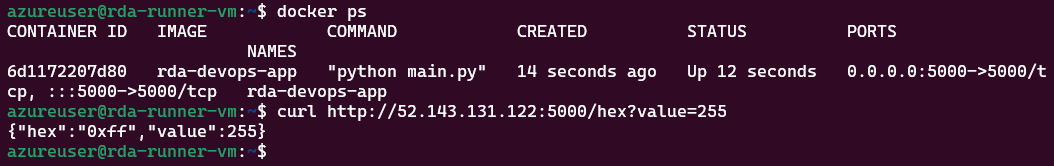
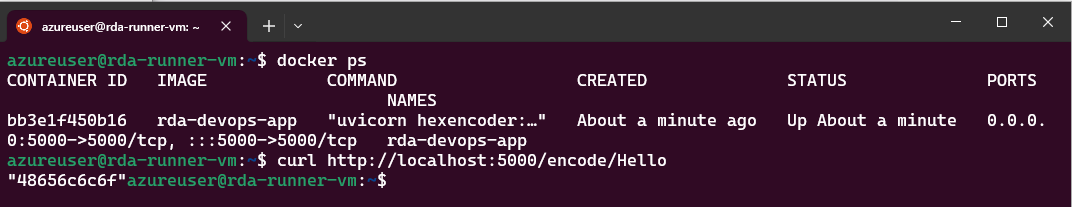
git ignore add, & update readme

diff --git a/cicd_deployment/hexencoder.py b/cicd_deployment/hexencoder.py
@@ -1,0 +1,15 @@
+#!/usr/bin/python3
+import codecs
+from fastapi import FastAPI
+
+# FastAPI app instance
+app = FastAPI()
+
+# hexencoder API
+@app.get("/encode/{text}")
+def hex_encode_text(text: str):
+    return codecs.getencoder('hex')(text.encode())[0].decode('ascii')
+
+@app.get("/decode/{text}")
+def hex_decode_text(text: str):
+    return codecs.getdecoder('hex')(text.encode())[0].decode('utf-8')

diff --git a/cicd_deployment/test_hexencoder.py b/cicd_deployment/test_hexencoder.py
@@ -1,0 +1,7 @@
+from cicd_deployment.hexencoder import hex_encode_text, hex_decode_text
+
+def test_encode():
+    assert hex_encode_text('Héllo') == '48c3a96c6c6f'
+
+def test_decode():
+    assert hex_decode_text('48c3a96c6c6f') == "Héllo"

diff --git a/cicd_deployment/README.md b/cicd_deployment/README.md
@@ -14,7 +14,7 @@ Le tout basé sur une application Python containerisée, avec des tests unitaire
 | 🧰 Plateforme CI/CD       | GitLab CE auto-hébergé sur Azure                                      |
 | 🖥 Infrastructure         | 2 VMs Azure déployées via Terraform (1 GitLab + 1 GitLab Runner)      |
 | ⚙ Provisionning          | Ansible (Docker, GitLab Runner, NGINX, Certbot...)                    |
-| 📦 Déploiement            | Docker / Shell                                                         |
+| 📦 Déploiement            | Docker / Shell / FastAPI (Uvicorn)                                                       |
 | 🔍 Supervision (optionnel)| Docker logs (local)                                                    |
 
 ---
@@ -31,7 +31,71 @@ Le tout basé sur une application Python containerisée, avec des tests unitaire
    └──> VM Azure exposée via HTTPS (Nginx + Certbot)
 ```
 
-![Schéma Architecture](images/schéma%20d'architecture.png)
+---
+
+## 📂 Fichiers clés
+
+- [`hexencoder.py`](hexencoder.py) : code principal FastAPI
+- [`test_hexencoder.py`](test_hexencoder.py) : tests unitaires Pytest
+- [`Dockerfile`](Dockerfile) : création de l’image
+- [`requirements.txt`](requirements.txt) : dépendances
+- [`.gitlab-ci.yml`](.gitlab-ci.yml) : pipeline GitLab CI/CD
+
+---
+
+## 🧪 Phase de test en local
+
+1. Créer et activer un environnement virtuel
+```bash 
+python3 -m venv .venv
+source .venv/bin/activate
+```
+2. Installer les dépendances 
+```bash 
+pip install -r requirements.txt
+```
+Si tu n’as pas encore de requirements.txt, tu peux le créer avec ce contenu :
+```
+pytest
+flask
+fastapi
+uvicorn
+```
+3. Lancer les tests unitaires avec `pytest`
+```bash 
+pytest
+```
+
+Tu dois voir une sortie comme :
+```
+==================== test session starts ====================
+collected 2 items
+
+test_hexencoder.py ..                                      [100%]
+
+===================== 2 passed in 0.05s =====================
+```
+![Uvicorn Host](images/pytest_and_uvicorn_host.png)
+
+4. Lancer le serveur en local (FastAPI)
+```bash 
+uvicorn hexencoder:app --host 0.0.0.0 --port 8000
+```
+
+Puis aller sur : 
+- Swagger UI → http://127.0.0.1:8000/docs
+- Test via `curl` :
+```bash 
+curl http://127.0.0.1:8000/encode/Héllo
+→ "48c3a96c6c6f"
+
+curl http://127.0.0.1:8000/decode/48c3a96c6c6f
+→ "Héllo"
+```
+
+![Fast API Access](images/fat_api_access.png)
+![Encode Hello Local](images/encode_hello.png)
+![Hello Local](images/hello.png)
 
 ---
 
@@ -81,10 +145,11 @@ Les tests sont déclenchés automatiquement via `pytest`.
 Extrait du test :
 
 ```python
-from main import convert_to_hex
-
-def test_convert_to_hex():
-    assert convert_to_hex(255) == "0xff"
+from hexencoder import hex_encode_text, hex_decode_text
+def test_encode():
+     assert hex_encode_text('Héllo') == '48c3a96c6c6f'
+def test_decode():
+     assert hex_decode_text('48c3a96c6c6f') == "Héllo"
 ```
 
 ![Tests unitaires](images/curl.png)
@@ -96,6 +161,7 @@ def test_convert_to_hex():
 Une branche `test-fail` a été créée avec un test volontairement erroné.  
 Le pipeline échoue correctement et empêche le merge (du point de vue des développeurs sans rôle admin).
 
+![MR ALLOWED](images/mr_allowed.png)
 ![Pipeline FAIL](images/merge%20request%20failed%201.png)
 
 ---
@@ -104,11 +170,15 @@ Le pipeline échoue correctement et empêche le merge (du point de vue des déve
 
 Une fois l’image Docker construite, elle est automatiquement lancée sur la VM Runner.
 
-> Accès public : `http://<rda-runner-vm>:5000/hex?value=255`  
-Retour :
-```json
-{"hex": "0xff", "value": 255}
-```
+> Accès public : `http://<rda-runner-vm>:5000/docs`  
+ Exemple d’appel API :
+ ```bash
+ curl http://<runner-vm>:5000/encode/Héllo
+ → "48c3a96c6c6f"
+
+ curl http://<runner-vm>:5000/decode/48c3a96c6c6f
+ → "Héllo"
+ ```
 ![Application Dockeurisé](images/Docker%20ps%20&%20curl.png)
 
 ---
